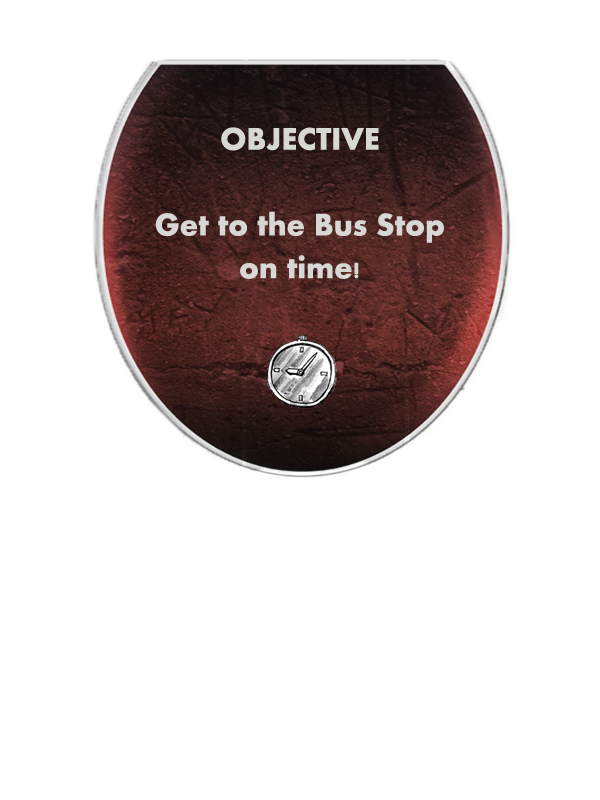
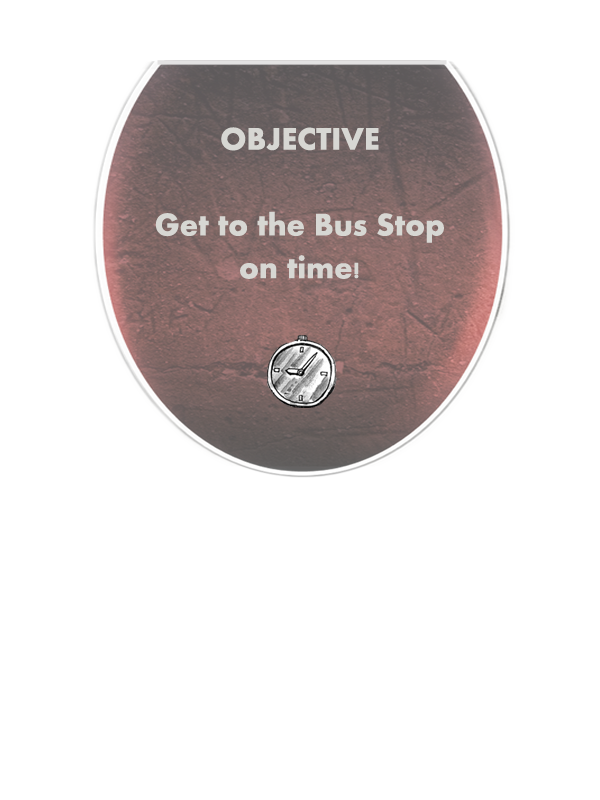
display the objective image

Changed region(s): [[0.15, 0.0625, 0.87, 0.5938]]

diff --git a/DontBeLate/core/src/com/comp4920/dbl/gameworld/GameInterfaceRenderer.java b/DontBeLate/core/src/com/comp4920/dbl/gameworld/GameInterfaceRenderer.java
@@ -92,6 +92,7 @@ public class GameInterfaceRenderer {
 	private Image mainMenuBg;
 	private Image crashedMenuBg;
 	private Image timeoutMenuBg;
+	private Image objectiveBg;
 	
 	private Image offBar;
 	
@@ -150,6 +151,8 @@ public class GameInterfaceRenderer {
 		mainMenuBg = new Image(AssetLoader.mainMenuBackground);
 		crashedMenuBg = new Image(AssetLoader.crashedGameOverBackground);
 		timeoutMenuBg = new Image(AssetLoader.timeoutGameOverBackground);
+		objectiveBg = new Image(AssetLoader.objectiveBackground);
+		
 		
 		stage = new Stage(new FitViewport(300, 400, camera));
 		batch = (SpriteBatch) stage.getBatch();
@@ -167,25 +170,33 @@ public class GameInterfaceRenderer {
 		//Print objective/ tutorial
 		
 		if (runTime < 3.5){
-			shapeRenderer.begin(ShapeType.Line);
-			shapeRenderer.setColor(Color.WHITE);
-			shapeRenderer.rect(65, 200, 175, 130);
-			shapeRenderer.end();
 			
 			batch.begin();
-			//display current checkpoint
-			yourBitmapFontName.setColor(1.0f, 1.15f, 1.30f, 1.0f);
+			objectiveBg.setScale(0.5f);
+			objectiveBg.setPosition(0, -5);
+			objectiveBg.draw(batch, 1);
+						
 			
-			String tutorialLabel = "Objective";
-			getBitMapFont().draw(batch, tutorialLabel, 77, 319);
-			
-			yourBitmapFontName.setColor(1.0f, 1.0f, 1.2f, 1.0f);
-			String tutorialLabel2 = "Get to the Bus Stop on ";
-			getBitMapFont().draw(batch, tutorialLabel2, 77, 295);
-			
-			String tutorialLabel3 = "time!";
-			getBitMapFont().draw(batch, tutorialLabel3, 77, 276);
-			
+//			shapeRenderer.begin(ShapeType.Line);
+//			shapeRenderer.setColor(Color.WHITE);
+//			shapeRenderer.rect(65, 200, 175, 130);
+//			shapeRenderer.end();
+//			
+//			
+//			
+//			batch.begin();
+//			//display current checkpoint
+//			yourBitmapFontName.setColor(1.0f, 1.15f, 1.30f, 1.0f);
+//			
+//			String tutorialLabel = "Objective";
+//			getBitMapFont().draw(batch, tutorialLabel, 77, 319);
+//			
+//			yourBitmapFontName.setColor(1.0f, 1.0f, 1.2f, 1.0f);
+//			String tutorialLabel2 = "Get to the Bus Stop on ";
+//			getBitMapFont().draw(batch, tutorialLabel2, 77, 295);
+//			
+//			String tutorialLabel3 = "time!";
+//			getBitMapFont().draw(batch, tutorialLabel3, 77, 276);
 			
 			batch.end();
 		}
@@ -585,7 +596,7 @@ public class GameInterfaceRenderer {
 			crashedMenuBg.setScale(0.5f);
 			crashedMenuBg.setPosition(0, 0);
 			stage.addActor(crashedMenuBg);
-		} else {
+		} else { 
 			timeoutMenuBg.setScale(0.5f);
 			timeoutMenuBg.setPosition(0, 0);
 			stage.addActor(timeoutMenuBg);
@@ -617,6 +628,10 @@ public class GameInterfaceRenderer {
 		String finalScoreLabel = "" + myWorld.generateScore();
 		getBitMapFont().draw(batch, finalScoreLabel, 120, 241);
 
+		yourBitmapFontName.setColor(1.0f, 1.0f, 1.0f, 1.0f);
+		String highestScore = "" + myWorld.getHighScore();
+		getBitMapFont().draw(batch, highestScore, 120, 200);
+		
 		batch.end();		
 
 		// restart button
